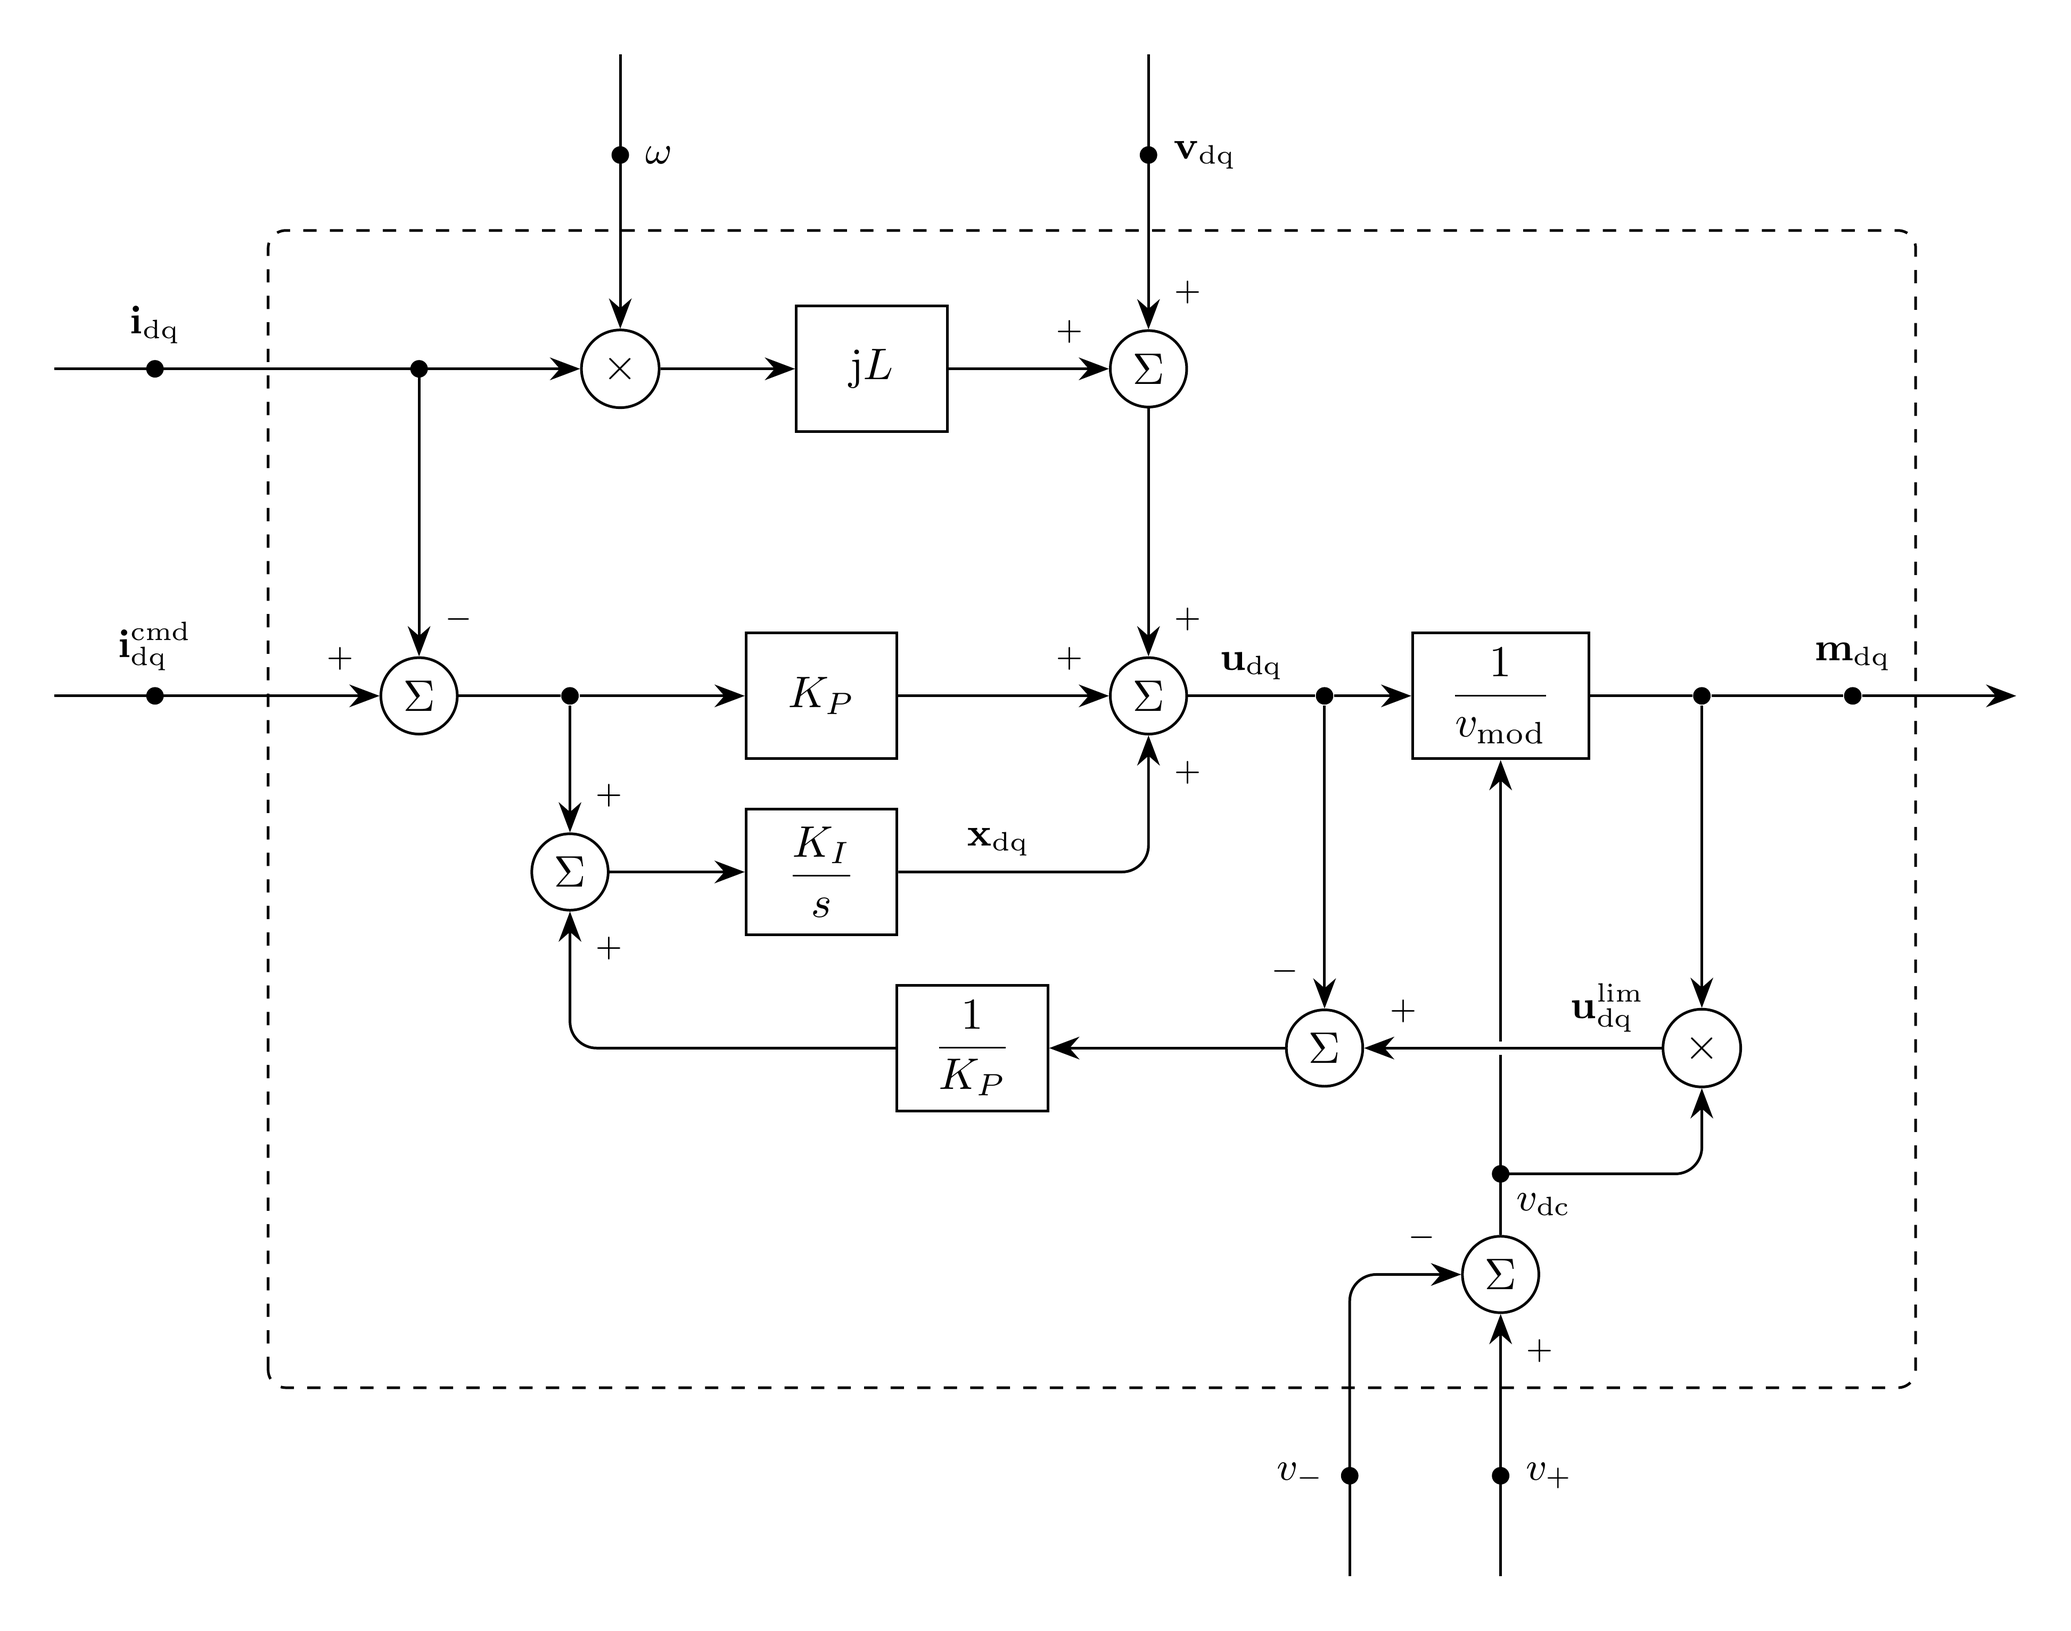
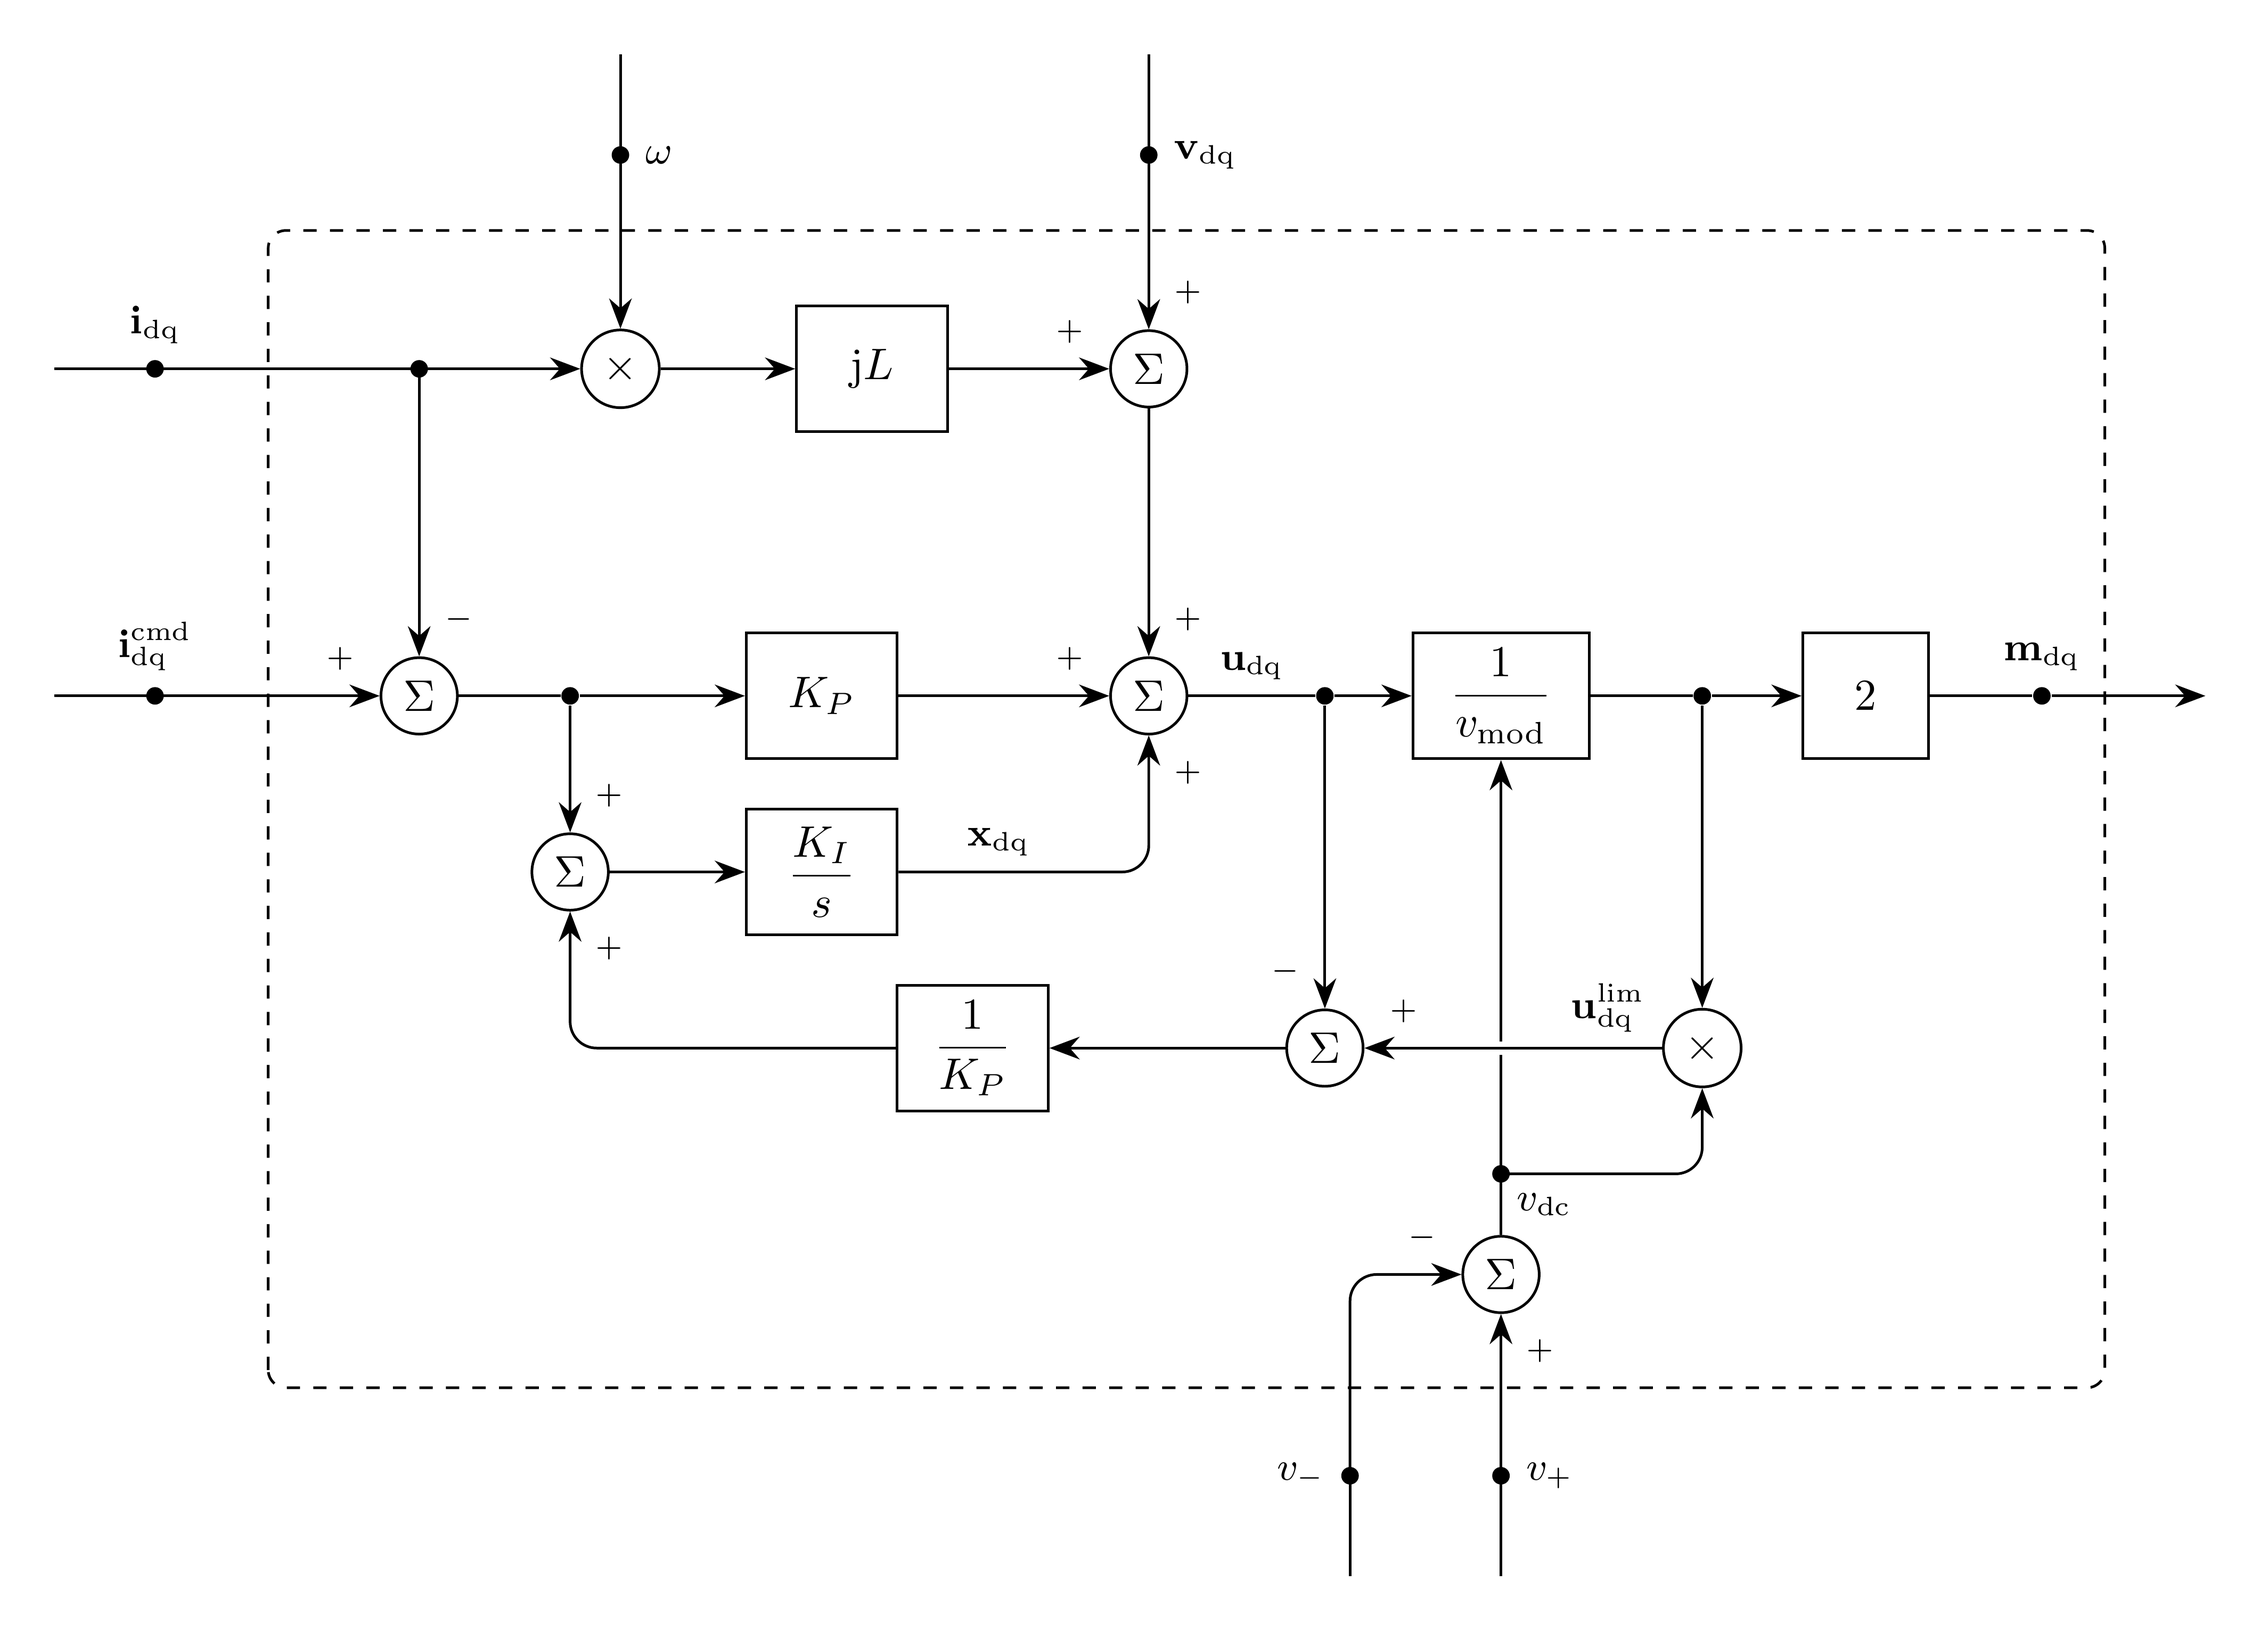
clean general PWM

diff --git a/docs/Figures/EMT/PWM/diagram.tex b/docs/Figures/EMT/PWM/diagram.tex
@@ -1,19 +1,26 @@
 \documentclass[tikz,border=12pt]{standalone}
 \input{../diagram-style.tex}
 
-% TUNABLES: pulse-edge spacing, stack offsets, and output spacing.
+% TUNABLES: pulse-edge spacing and stack offsets.
 \def\edgerow{1.2}
 \def\stackstep{0.22}
 \def\stackfar{0.8}
-\def\outputrow{1.05}
 
 \begin{document}
 \begin{tikzpicture}[emt diagram]
 
 % Duty and alignment remain dimensionless until the final edge-time gains.
-\node[signal, label={[sig]left:$\mathbf{d}$}] (d) at (3.2,-3.3) {};
+\node[signal, label={[sig]left:$\mathbf{m}$}] (m) at (5.2,-4.9) {};
+\node[block, minimum width=1.2cm] (half) at (3.2,-3.4) {$\dfrac{1}{2}$};
+\node[sum] (duty) at (5.2,-3.4) {$\Sigma$};
+\draw[->, line] (m) -- (duty.south);
+\draw[->, line] (6.6,-3.4) node[sig, right] {$1 + m_0$} -- (duty.east);
+\draw[->, line] (duty.west) -- (half.east);
+\node[pm, anchor=north west] at ($(duty.south)+(0.08,-0.08)$) {$+$};
+\node[pm, anchor=south west] at ($(duty.east)+(0.08,0.08)$) {$+$};
 \node[signal] (split) at (3.2,-\edgerow) {};
-\draw[line] (d) -- (split);
+\draw[line] (half.north) -- (split)
+    node[sig, pos=0.2, left] {$\mathbf{d}$};
 
 % The hollow input bubble complements duty before applying the alignment gain.
 \node[block, minimum width=1.2cm] (align) at (3.2,0) {$\alpha$};
@@ -68,22 +75,22 @@
 \node[pm, anchor=east] at ($(pulse.north)+(-0.12,0.15)$) {$+$};
 \node[pm, anchor=east] at ($(pulse.south)+(-0.12,-0.15)$) {$-$};
 
-\node[sum] (periods) at (12.6,0) {$\Sigma$};
-\draw[->, line] (pulse.east) -- (periods.west);
-\draw[->, line] (10.95+\stackfar+\stackstep,\outputrow) -| (periods.north);
-\draw[->, line] (10.95+\stackstep,-\outputrow) -| (periods.south);
-\node[signal, label={[sig]above:$\mathbf{s}$}, right=0.55cm of periods] (s) {};
-\draw[line] (periods.east) -- (s);
+% Every page meets one collecting edge along the stack; its far end is the sum.
+\draw[->, line] (pulse.east) -- (12.5,0);
+\foreach \offset in {\stackstep,\stackfar,\stackfar+\stackstep}
+    \draw[->, line] (10.95+\offset,\offset) -- (12.5+\offset,\offset);
+\node[signal, label={[sig]above:$\mathbf{s}$}] (s) at (13.9,1.4) {};
+\draw[semithick] (12.5,0) -- (s);
 \draw[->, line] (s) -- ++(1.35,0);
 
 % The stack continues along the carrier-period index.
-\draw[->, line] (12.15,2.65) -- (13.15,3.65)
+\draw[->, line] (1.75,3.05) -- (2.77,4.07)
     node[sig, midway, above left] {$k$};
 \foreach \offset in {0.36,0.5,0.64}
     \fill (10.95+\offset,2.8+\offset) circle (0.65pt);
 
 \begin{scope}[on background layer]
-    \draw[enclosure] (1.4,-2.85) rectangle (14.15,4.2);
+    \draw[enclosure] (1.2,-4.4) rectangle (14.6,4.4);
     \foreach \offset in {\stackfar+\stackstep,\stackfar,\stackstep,0} {
         \draw[semithick, fill=white]
             (2.0+\offset,-2.25+\offset)

diff --git a/docs/Figures/EMT/CurrentControl/diagram.tex b/docs/Figures/EMT/CurrentControl/diagram.tex
@@ -29,6 +29,7 @@
 \node[signal] (usplit) at (8.4,1.0) {};
 \node[block, minimum width=1.4cm] (limit) at (9.8,1.0) {$\dfrac{1}{v_\mathrm{mod}}$};
 \node[signal] (msplit) at (11.4,1.0) {};
+\node[block, minimum width=1.0cm] (two) at (12.7,1.0) {$2$};
 
 % Limited-voltage feedback to the integrator.
 \node[sum] (excess) at (8.4,-1.8) {$\Sigma$};
@@ -67,8 +68,9 @@
     node[sig, midway, above] {$\mathbf{u}_\mathrm{dq}$};
 \draw[->, line] (usplit) -- (limit.west);
 \draw[line] (limit.east) -- (msplit);
-\node[signal, label={[sig]above:$\mathbf{m}_\mathrm{dq}$}] (mout) at (12.6,1.0) {};
-\draw[line] (msplit) -- (mout);
+\node[signal, label={[sig]above:$\mathbf{m}_\mathrm{dq}$}] (mout) at (14.1,1.0) {};
+\draw[->, line] (msplit) -- (two.west);
+\draw[line] (two.east) -- (mout);
 \draw[->, line] (mout) -- ++(1.3,0);
 
 \draw[->, line] (usplit) -- (excess.north);
@@ -111,7 +113,7 @@
 \node[signal, label={[sig]right:$v_+$}] at (vposin) {};
 \node[signal, label={[sig]left:$v_-$}] at (vnegin) {};
 
-\draw[enclosure] (0,-4.5) rectangle (13.1,4.7);
+\draw[enclosure] (0,-4.5) rectangle (14.6,4.7);
 
 \end{tikzpicture}
 \end{document}

diff --git a/GridKit/Model/EMT/Operators/Modulation/PWM/README.md b/GridKit/Model/EMT/Operators/Modulation/PWM/README.md
@@ -1,9 +1,7 @@
 # PWM Model
 
-`PWM` maps duty ratios to smooth switching functions for $N$ channels.
-Channels share carrier timing. Voltage limiting, coordinate transformations,
-and duty generation belong to the upstream controller. Any limited-voltage
-feedback for antiwindup remains there.
+`PWM` maps modulation signals to smooth switching functions for $N$ channels.
+Channels share carrier timing. Duty ratios are internal.
 
 ## Block Diagram
 
@@ -14,7 +12,7 @@ and the stacked pulse branches sum over all carrier periods
 
 ![PWM switching functions](../../../../../../docs/Figures/EMT/PWM/waveforms.png)
 
-Figure 2: Centered switching functions for sinusoidal duty inputs with modulation
+Figure 2: Centered switching functions for sinusoidal duty ratios with modulation
 index $\frac{4}{5}$, frequency $60\,\mathrm{Hz}$, and carrier frequency $900\,\mathrm{Hz}$
 at $\mu^{-1}=5\,\mu\mathrm{s}$ and $\mu^{-1}=1\,\mathrm{ms}$
 
@@ -25,6 +23,8 @@ Symbol | Units | JSON | Description | Note
 $N$ | [-] | `N` | Number of channels | Required, positive integer
 $f_{\mathrm{c}}$ | [Hz] | `fc` | Carrier frequency | Required, positive
 $\alpha$ | [-] | `alignment` | Pulse alignment | Default $\frac{1}{2}$
+$\mathrm{injection}$ | [-] | `injection` | Zero-sequence injection | Optional Boolean, `true` injects (default)
+$k_0$ | [-] | `k0` | Zero-state partition | Default $\frac{1}{2}$
 
 ### Parameter Validation
 
@@ -34,9 +34,12 @@ All real parameters must be finite.
 \begin{aligned}
 N &\in \mathbb{Z}_{>0} \\
 f_{\mathrm{c}} &> 0 \\
-0 &\le \alpha \le 1
+0 &\le \alpha \le 1 \\
+0 &\le k_0 \le 1
 \end{aligned}
 ```
+
+A single channel requires no zero-sequence injection.
 
 ### Model Derived Parameters
 
@@ -48,10 +51,11 @@ T = \dfrac{1}{f_{\mathrm{c}}}
 
 Symbol | Port | Type | Units | Description | Note
 ------ | ---- | ---- | ----- | ----------- | ----
-$\mathbf{d}$ | `d` | Input | [-] | Duty ratios | $\mathbf{d} \in \mathbb{R}^N$
+$\mathbf{m}$ | `m` | Input | [-] | Modulation signals | $\mathbf{m} \in \mathbb{R}^N$
 $\mathbf{s}$ | `s` | Output | [-] | Switching functions | $\mathbf{s} \in \mathbb{R}^N$
 
-Each channel satisfies $0 \le d_n \le 1$ and $0 \le s_n \le 1$.
+The modulation signals must give duty ratios $0 \le d_n \le 1$. Each
+switching function satisfies $0 \le s_n \le 1$.
 The switching functions can drive
 [Bridge](../../../Component/Converter/Bridge/README.md).
 
@@ -88,19 +92,36 @@ models. Prescribed and computed signals introduce no variables.
 
 Symbol | Units | Description | Note
 ------ | ----- | ----------- | ----
-$\mathbf{d}$ | [-] | Duty ratios | $\mathbf{d} \in \mathbb{R}^N$
+$\mathbf{m}$ | [-] | Modulation signals | $\mathbf{m} \in \mathbb{R}^N$
 
 #### Algebraic
 
 Symbol | Units | Description | Note
 ------ | ----- | ----------- | ----
-$\mathbf{d}$ | [-] | Duty ratios | $\mathbf{d} \in \mathbb{R}^N$
+$\mathbf{m}$ | [-] | Modulation signals | $\mathbf{m} \in \mathbb{R}^N$
 
 ## Model Equations
 
-Smooth functions: [$\sigma$](../../../../../CommonMath.md#logistic-function).
+Smooth functions: [`max`](../../../../../CommonMath.md#maximum), [`min`](../../../../../CommonMath.md#minimum), [$\sigma$](../../../../../CommonMath.md#logistic-function).
 
 Scalar offsets and smooth functions apply componentwise.
+The extremes $m^{\max}$ and $m^{\min}$ apply `max` and `min` across the
+channels. The zero-sequence signal is
+
+```math
+m_0 =
+\begin{cases}
+-\left[(1 - 2k_0) + k_0 m^{\max} + (1 - k_0)m^{\min}\right], & \text{injection} \\
+0, & \text{otherwise}
+\end{cases}
+```
+
+The duty ratios are
+
+```math
+\mathbf{d} = \dfrac{1}{2}(1 + \mathbf{m} + m_0)
+```
+
 For each integer $k$, the pulse-edge vectors are
 
 ```math
@@ -111,7 +132,7 @@ For each integer $k$, the pulse-edge vectors are
 ```
 
 All channels use the same carrier periods starting at $t=kT$.
-Electrical phase and phase sequence are carried by $\mathbf{d}$.
+Electrical phase and phase sequence are carried by $\mathbf{m}$.
 Every periodic copy uses the current duty vector. There is no sample-and-hold.
 Alignment $\alpha=0$ fixes the rising edge at the period start,
 $\alpha=1$ fixes the falling edge at the period end, and
@@ -142,4 +163,5 @@ None.
 
 Monitor | Units | Description | Note
 ------- | ----- | ----------- | ----
+`d` | [-] | Duty ratios | $\mathbf{d} \in \mathbb{R}^N$
 `s` | [-] | Switching functions | $\mathbf{s} \in \mathbb{R}^N$

diff --git a/GridKit/Model/EMT/Component/Controller/CurrentControl/README.md b/GridKit/Model/EMT/Component/Controller/CurrentControl/README.md
@@ -18,6 +18,7 @@ Symbol | Units | JSON | Description | Note
 $K_P$ | $[\Omega]$ | `Kp` | Proportional gain | Required, positive
 $K_I$ | $[\Omega/\mathrm{s}]$ | `Ki` | Integral gain | Required, positive
 $L$ | [H] | `L` | Decoupling inductance | Required, positive
+$M^{\max}$ | [-] | `Mmax` | Maximum modulation magnitude | Default $1$
 
 ### Parameter Validation
 
@@ -25,7 +26,8 @@ $L$ | [H] | `L` | Decoupling inductance | Required, positive
 \begin{aligned}
 K_P &\in \mathbb{R}_{>0} \\
 K_I &\in \mathbb{R}_{>0} \\
-L &\in \mathbb{R}_{>0}
+L &\in \mathbb{R}_{>0} \\
+M^{\max} &\in \mathbb{R}_{>0}
 \end{aligned}
 ```
 
@@ -129,7 +131,7 @@ The limited voltage commands are
 
 ```math
 \begin{aligned}
-v_\mathrm{mod} &= \sqrt{\text{max}\left(v_\mathrm{dc}^2, 3(u_d^2 + u_q^2)\right)} \\
+v_\mathrm{mod} &= \sqrt{\text{max}\left(v_\mathrm{dc}^2, \dfrac{4}{(M^{\max})^2}(u_d^2 + u_q^2)\right)} \\
 u_d^\mathrm{lim} &= \dfrac{1}{v_\mathrm{mod}}v_\mathrm{dc}u_d \\
 u_q^\mathrm{lim} &= \dfrac{1}{v_\mathrm{mod}}v_\mathrm{dc}u_q
 \end{aligned}
@@ -156,8 +158,8 @@ None.
 
 ```math
 \begin{aligned}
-m_d &\leftarrow \dfrac{1}{v_\mathrm{mod}}u_d \\
-m_q &\leftarrow \dfrac{1}{v_\mathrm{mod}}u_q
+m_d &\leftarrow \dfrac{2}{v_\mathrm{mod}}u_d \\
+m_q &\leftarrow \dfrac{2}{v_\mathrm{mod}}u_q
 \end{aligned}
 ```
 
